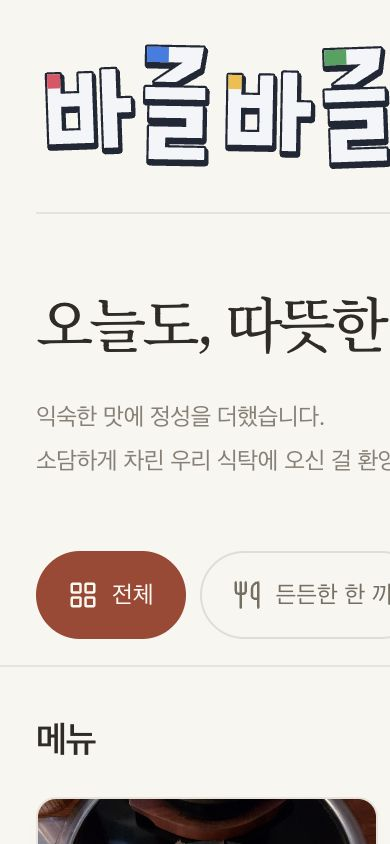
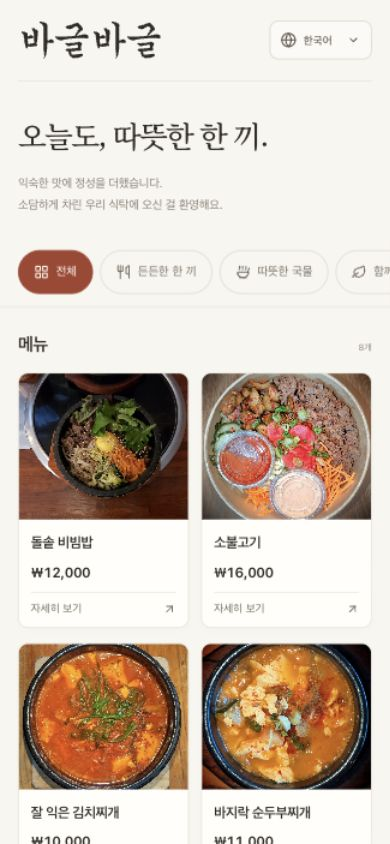
style: replace restaurant wordmark with Gungseo lettering

diff --git a/src/components/BrandWordmark.tsx b/src/components/BrandWordmark.tsx
@@ -1,66 +1,25 @@
-const ba =
-  "M8 25H20V43H37V25H49V89H8Z M20 55V77H37V55Z M58 22H71V49H84V62H71V94H58Z";
-const geul =
-  "M5 3H57L54 22L32 35H12L38 17H5Z M4 40H59V51H4Z M8 57H57V86H23V95H59V106H8V76H42V68H8Z";
-
-// Paths keep the sign-inspired lettering consistent without a device font.
+// Letter outlines rendered from the original ChosunGs font; see README for source.
 const letters = [
-  {
-    path: ba,
-    transform: "translate(3 5) rotate(-2 42 55)",
-    accent: "M8 25H20V38H8Z",
-    color: "#e74d64",
-  },
-  {
-    path: geul,
-    transform: "translate(96 3) rotate(1 30 55)",
-    accent: "M5 3H25V17H5Z",
-    color: "#347ee5",
-  },
-  {
-    path: ba,
-    transform: "translate(168 7) rotate(1 42 55)",
-    accent: "M8 25H20V38H8Z",
-    color: "#f4bd34",
-  },
-  {
-    path: geul,
-    transform: "translate(261 5) rotate(-2 30 55)",
-    accent: "M5 3H25V17H5Z",
-    color: "#37a35b",
-  },
+  { x: 0, path: "M410 293Q407 293 403.0 292.0Q399 291 396 289Q379 283 360.5 279.0Q342 275 321 270Q309 267 288.5 263.0Q268 259 250 257Q250 257 250.0 257.5Q250 258 250 258L244 397Q257 399 269.5 399.5Q282 400 290 401Q301 401 322.0 402.5Q343 404 348 404Q354 406 364.0 408.0Q374 410 381 415Q388 420 391.0 429.0Q394 438 392 446Q391 457 378.5 468.5Q366 480 355 484Q348 487 337.5 488.0Q327 489 322 489Q317 489 310.0 484.5Q303 480 298 477Q292 473 284.0 467.5Q276 462 268 459Q262 457 255.5 455.5Q249 454 242 452L241 473Q240 489 240.5 498.5Q241 508 240 522Q236 530 224.0 538.0Q212 546 202 551Q188 559 166.0 566.5Q144 574 131 577Q119 580 106.5 577.5Q94 575 90 569Q86 562 90.0 555.0Q94 548 97 543Q99 539 107.5 531.0Q116 523 121 516Q129 507 134.5 497.5Q140 488 142 478Q147 450 157.5 373.0Q168 296 172 274Q176 250 182.0 226.0Q188 202 192 191Q198 175 205.5 162.5Q213 150 222 150Q230 150 237.0 163.0Q244 176 247 192Q248 196 248.5 200.0Q249 204 249 208Q257 207 265.0 205.0Q273 203 278 201Q287 199 301.0 197.0Q315 195 321 195Q334 195 355.5 198.0Q377 201 395 204Q411 206 430.5 207.5Q450 209 459 212Q467 214 476.5 219.5Q486 225 487 229Q489 234 488.5 242.5Q488 251 485 255Q484 259 477.0 266.5Q470 274 464 278Q468 288 472.0 297.5Q476 307 478 313Q482 323 486.5 349.5Q491 376 492 383Q494 397 496.5 445.0Q499 493 498 513Q498 517 498.5 524.0Q499 531 500 534Q500 535 501.0 539.5Q502 544 503 548Q506 561 507.0 572.0Q508 583 505 588Q502 596 486.5 609.5Q471 623 455 633Q439 644 418.5 653.0Q398 662 385 665Q376 667 365.0 663.0Q354 659 351 654Q347 647 352.5 637.5Q358 628 361 623Q365 616 371.5 607.0Q378 598 382 590Q387 580 391.5 569.5Q396 559 397 551Q398 539 399.5 526.5Q401 514 401 502Q403 475 404.0 431.0Q405 387 405 377Q405 365 407.0 340.0Q409 315 410 293ZM740 349V693Q740 698 740.5 706.5Q741 715 742 719Q743 723 745.0 731.0Q747 739 747 742Q747 747 742.0 753.0Q737 759 728 766Q720 773 705.0 782.0Q690 791 676 798Q666 803 649.0 811.0Q632 819 622 822Q613 825 600.5 827.5Q588 830 580 830Q570 830 559.0 827.5Q548 825 546 817Q545 812 552.0 805.0Q559 798 567 792Q576 785 588.5 775.0Q601 765 611 754Q622 742 632.5 727.5Q643 713 643 692V265Q643 248 644.5 201.5Q646 155 648 129Q650 103 653.5 72.5Q657 42 660 24Q662 9 663.5 -7.0Q665 -23 665 -31Q665 -40 663.5 -52.0Q662 -64 661 -69Q660 -74 659.0 -81.5Q658 -89 656 -95Q655 -99 654.0 -103.5Q653 -108 656 -110Q660 -111 663.5 -107.5Q667 -104 671 -98Q674 -93 679.0 -84.0Q684 -75 690 -63Q696 -49 704.0 -23.5Q712 2 718 27Q723 49 727.5 83.5Q732 118 735 140Q737 164 738.5 210.5Q740 257 740 272V294Q744 295 747.0 295.0Q750 295 752 295Q759 295 780.0 294.0Q801 293 811 292Q822 291 841.5 288.5Q861 286 865 286Q872 286 880.0 289.5Q888 293 892 298Q897 303 900.0 311.5Q903 320 903 328Q903 339 900.0 346.5Q897 354 892 358Q888 362 881.0 366.5Q874 371 866 374Q859 377 848.0 379.0Q837 381 832 381Q827 381 819.5 379.0Q812 377 807 374Q801 370 792.0 365.5Q783 361 774 357Q767 354 758.0 352.0Q749 350 740 349Z" },
+  { x: 910, path: "M523 466Q503 465 482.5 463.5Q462 462 444 460Q377 456 314.0 452.5Q251 449 219 449Q173 449 128.5 451.5Q84 454 61 455Q44 457 37.0 453.0Q30 449 30 440Q30 427 51.5 411.5Q73 396 97 382Q119 370 143.5 360.0Q168 350 177 350Q182 350 196.5 355.0Q211 360 224 364Q241 369 260.5 373.0Q280 377 300 381Q326 386 369.5 391.0Q413 396 458 400Q503 404 550.5 408.0Q598 412 631 413Q658 414 695.5 413.5Q733 413 759 411Q777 410 798.5 408.0Q820 406 824 406Q832 406 840.5 407.5Q849 409 856 416Q862 422 866.0 430.5Q870 439 870 446Q870 454 868.5 461.5Q867 469 861 476Q855 484 842.5 490.5Q830 497 818 501Q804 506 784.0 509.0Q764 512 755 512Q749 511 737.0 507.0Q725 503 713 499Q696 494 674.5 489.0Q653 484 627 479Q613 477 595.5 474.5Q578 472 559 470Q579 490 602.5 511.0Q626 532 636 539Q646 548 658.0 562.0Q670 576 679 586Q687 590 695.0 595.0Q703 600 709 604Q717 609 724.0 617.0Q731 625 732 630Q735 636 730.5 650.5Q726 665 718 679Q708 696 691.0 720.0Q674 744 657 759Q635 779 614.0 788.5Q593 798 580 798Q572 798 553.0 792.0Q534 786 520 779Q508 775 487.0 767.0Q466 759 448 753Q430 746 409.0 741.0Q388 736 372 732Q357 729 338.0 725.0Q319 721 309 719Q300 716 294.0 710.5Q288 705 288 700Q288 696 294.0 686.0Q300 676 307 672Q316 667 327.0 661.5Q338 656 348 651Q360 646 375.0 642.0Q390 638 398 638Q406 638 417.0 639.5Q428 641 435 644Q440 646 447.5 650.0Q455 654 459 658Q466 663 477.5 668.5Q489 674 496 678Q507 684 533.5 697.5Q560 711 567 711Q572 711 581.0 707.0Q590 703 603 690Q617 678 620.0 665.5Q623 653 619 642Q614 629 603.5 607.5Q593 586 584 568Q574 549 555.5 518.0Q537 487 523 466ZM678 302Q667 310 654.5 315.5Q642 321 634 321Q624 321 611.0 314.5Q598 308 587 305Q572 302 542.0 298.5Q512 295 496 293Q475 291 439.5 288.5Q404 286 384 286Q367 286 348.0 286.5Q329 287 313 288Q298 290 290.5 285.5Q283 281 283 273Q283 266 291.0 257.0Q299 248 306 243Q315 236 325.5 229.5Q336 223 346 218Q356 214 368.0 209.5Q380 205 385 205Q390 205 400.5 209.5Q411 214 418 216Q432 220 446.5 223.5Q461 227 478 230Q489 232 508.5 235.0Q528 238 544 240Q555 242 575.0 244.0Q595 246 602 247Q604 232 606.0 207.5Q608 183 609 168Q591 164 545.5 159.0Q500 154 477 152Q449 149 419.5 147.0Q390 145 371 145Q355 145 341.0 145.5Q327 146 320 144Q308 142 301.5 137.0Q295 132 295 124Q295 117 299.0 111.5Q303 106 309 101Q312 98 323.5 90.5Q335 83 345 78Q353 74 359.5 69.0Q366 64 370 60Q372 55 378.5 23.5Q385 -8 389 -23Q394 -39 406.5 -50.5Q419 -62 435 -72Q449 -80 467.0 -87.5Q485 -95 498 -95Q515 -95 548.0 -91.5Q581 -88 602 -84Q625 -79 657.5 -71.0Q690 -63 706 -56Q720 -49 726.5 -37.0Q733 -25 729 -6Q727 5 716.5 12.5Q706 20 696 20Q689 20 677.0 17.5Q665 15 656 13Q646 11 627.0 8.0Q608 5 590 2Q571 -1 546.0 -3.5Q521 -6 505 -7Q490 -8 474.5 -7.0Q459 -6 446 -3L434 73Q445 75 461.5 77.5Q478 80 494 82Q506 84 557.0 88.5Q608 93 637 94Q661 96 676.5 100.0Q692 104 696 117Q700 127 693.0 139.5Q686 152 672 162L693 232Q698 240 705.0 250.0Q712 260 712 270Q712 276 701.5 285.0Q691 294 678 302Z" },
+  { x: 1820, path: "M410 293Q407 293 403.0 292.0Q399 291 396 289Q379 283 360.5 279.0Q342 275 321 270Q309 267 288.5 263.0Q268 259 250 257Q250 257 250.0 257.5Q250 258 250 258L244 397Q257 399 269.5 399.5Q282 400 290 401Q301 401 322.0 402.5Q343 404 348 404Q354 406 364.0 408.0Q374 410 381 415Q388 420 391.0 429.0Q394 438 392 446Q391 457 378.5 468.5Q366 480 355 484Q348 487 337.5 488.0Q327 489 322 489Q317 489 310.0 484.5Q303 480 298 477Q292 473 284.0 467.5Q276 462 268 459Q262 457 255.5 455.5Q249 454 242 452L241 473Q240 489 240.5 498.5Q241 508 240 522Q236 530 224.0 538.0Q212 546 202 551Q188 559 166.0 566.5Q144 574 131 577Q119 580 106.5 577.5Q94 575 90 569Q86 562 90.0 555.0Q94 548 97 543Q99 539 107.5 531.0Q116 523 121 516Q129 507 134.5 497.5Q140 488 142 478Q147 450 157.5 373.0Q168 296 172 274Q176 250 182.0 226.0Q188 202 192 191Q198 175 205.5 162.5Q213 150 222 150Q230 150 237.0 163.0Q244 176 247 192Q248 196 248.5 200.0Q249 204 249 208Q257 207 265.0 205.0Q273 203 278 201Q287 199 301.0 197.0Q315 195 321 195Q334 195 355.5 198.0Q377 201 395 204Q411 206 430.5 207.5Q450 209 459 212Q467 214 476.5 219.5Q486 225 487 229Q489 234 488.5 242.5Q488 251 485 255Q484 259 477.0 266.5Q470 274 464 278Q468 288 472.0 297.5Q476 307 478 313Q482 323 486.5 349.5Q491 376 492 383Q494 397 496.5 445.0Q499 493 498 513Q498 517 498.5 524.0Q499 531 500 534Q500 535 501.0 539.5Q502 544 503 548Q506 561 507.0 572.0Q508 583 505 588Q502 596 486.5 609.5Q471 623 455 633Q439 644 418.5 653.0Q398 662 385 665Q376 667 365.0 663.0Q354 659 351 654Q347 647 352.5 637.5Q358 628 361 623Q365 616 371.5 607.0Q378 598 382 590Q387 580 391.5 569.5Q396 559 397 551Q398 539 399.5 526.5Q401 514 401 502Q403 475 404.0 431.0Q405 387 405 377Q405 365 407.0 340.0Q409 315 410 293ZM740 349V693Q740 698 740.5 706.5Q741 715 742 719Q743 723 745.0 731.0Q747 739 747 742Q747 747 742.0 753.0Q737 759 728 766Q720 773 705.0 782.0Q690 791 676 798Q666 803 649.0 811.0Q632 819 622 822Q613 825 600.5 827.5Q588 830 580 830Q570 830 559.0 827.5Q548 825 546 817Q545 812 552.0 805.0Q559 798 567 792Q576 785 588.5 775.0Q601 765 611 754Q622 742 632.5 727.5Q643 713 643 692V265Q643 248 644.5 201.5Q646 155 648 129Q650 103 653.5 72.5Q657 42 660 24Q662 9 663.5 -7.0Q665 -23 665 -31Q665 -40 663.5 -52.0Q662 -64 661 -69Q660 -74 659.0 -81.5Q658 -89 656 -95Q655 -99 654.0 -103.5Q653 -108 656 -110Q660 -111 663.5 -107.5Q667 -104 671 -98Q674 -93 679.0 -84.0Q684 -75 690 -63Q696 -49 704.0 -23.5Q712 2 718 27Q723 49 727.5 83.5Q732 118 735 140Q737 164 738.5 210.5Q740 257 740 272V294Q744 295 747.0 295.0Q750 295 752 295Q759 295 780.0 294.0Q801 293 811 292Q822 291 841.5 288.5Q861 286 865 286Q872 286 880.0 289.5Q888 293 892 298Q897 303 900.0 311.5Q903 320 903 328Q903 339 900.0 346.5Q897 354 892 358Q888 362 881.0 366.5Q874 371 866 374Q859 377 848.0 379.0Q837 381 832 381Q827 381 819.5 379.0Q812 377 807 374Q801 370 792.0 365.5Q783 361 774 357Q767 354 758.0 352.0Q749 350 740 349Z" },
+  { x: 2730, path: "M523 466Q503 465 482.5 463.5Q462 462 444 460Q377 456 314.0 452.5Q251 449 219 449Q173 449 128.5 451.5Q84 454 61 455Q44 457 37.0 453.0Q30 449 30 440Q30 427 51.5 411.5Q73 396 97 382Q119 370 143.5 360.0Q168 350 177 350Q182 350 196.5 355.0Q211 360 224 364Q241 369 260.5 373.0Q280 377 300 381Q326 386 369.5 391.0Q413 396 458 400Q503 404 550.5 408.0Q598 412 631 413Q658 414 695.5 413.5Q733 413 759 411Q777 410 798.5 408.0Q820 406 824 406Q832 406 840.5 407.5Q849 409 856 416Q862 422 866.0 430.5Q870 439 870 446Q870 454 868.5 461.5Q867 469 861 476Q855 484 842.5 490.5Q830 497 818 501Q804 506 784.0 509.0Q764 512 755 512Q749 511 737.0 507.0Q725 503 713 499Q696 494 674.5 489.0Q653 484 627 479Q613 477 595.5 474.5Q578 472 559 470Q579 490 602.5 511.0Q626 532 636 539Q646 548 658.0 562.0Q670 576 679 586Q687 590 695.0 595.0Q703 600 709 604Q717 609 724.0 617.0Q731 625 732 630Q735 636 730.5 650.5Q726 665 718 679Q708 696 691.0 720.0Q674 744 657 759Q635 779 614.0 788.5Q593 798 580 798Q572 798 553.0 792.0Q534 786 520 779Q508 775 487.0 767.0Q466 759 448 753Q430 746 409.0 741.0Q388 736 372 732Q357 729 338.0 725.0Q319 721 309 719Q300 716 294.0 710.5Q288 705 288 700Q288 696 294.0 686.0Q300 676 307 672Q316 667 327.0 661.5Q338 656 348 651Q360 646 375.0 642.0Q390 638 398 638Q406 638 417.0 639.5Q428 641 435 644Q440 646 447.5 650.0Q455 654 459 658Q466 663 477.5 668.5Q489 674 496 678Q507 684 533.5 697.5Q560 711 567 711Q572 711 581.0 707.0Q590 703 603 690Q617 678 620.0 665.5Q623 653 619 642Q614 629 603.5 607.5Q593 586 584 568Q574 549 555.5 518.0Q537 487 523 466ZM678 302Q667 310 654.5 315.5Q642 321 634 321Q624 321 611.0 314.5Q598 308 587 305Q572 302 542.0 298.5Q512 295 496 293Q475 291 439.5 288.5Q404 286 384 286Q367 286 348.0 286.5Q329 287 313 288Q298 290 290.5 285.5Q283 281 283 273Q283 266 291.0 257.0Q299 248 306 243Q315 236 325.5 229.5Q336 223 346 218Q356 214 368.0 209.5Q380 205 385 205Q390 205 400.5 209.5Q411 214 418 216Q432 220 446.5 223.5Q461 227 478 230Q489 232 508.5 235.0Q528 238 544 240Q555 242 575.0 244.0Q595 246 602 247Q604 232 606.0 207.5Q608 183 609 168Q591 164 545.5 159.0Q500 154 477 152Q449 149 419.5 147.0Q390 145 371 145Q355 145 341.0 145.5Q327 146 320 144Q308 142 301.5 137.0Q295 132 295 124Q295 117 299.0 111.5Q303 106 309 101Q312 98 323.5 90.5Q335 83 345 78Q353 74 359.5 69.0Q366 64 370 60Q372 55 378.5 23.5Q385 -8 389 -23Q394 -39 406.5 -50.5Q419 -62 435 -72Q449 -80 467.0 -87.5Q485 -95 498 -95Q515 -95 548.0 -91.5Q581 -88 602 -84Q625 -79 657.5 -71.0Q690 -63 706 -56Q720 -49 726.5 -37.0Q733 -25 729 -6Q727 5 716.5 12.5Q706 20 696 20Q689 20 677.0 17.5Q665 15 656 13Q646 11 627.0 8.0Q608 5 590 2Q571 -1 546.0 -3.5Q521 -6 505 -7Q490 -8 474.5 -7.0Q459 -6 446 -3L434 73Q445 75 461.5 77.5Q478 80 494 82Q506 84 557.0 88.5Q608 93 637 94Q661 96 676.5 100.0Q692 104 696 117Q700 127 693.0 139.5Q686 152 672 162L693 232Q698 240 705.0 250.0Q712 260 712 270Q712 276 701.5 285.0Q691 294 678 302Z" },
 ];
 
 export function BrandWordmark() {
   return (
     <svg
       className="brand-wordmark"
-      viewBox="0 0 330 120"
-      fill="none"
+      viewBox="0 0 3640 1020.22"
+      fill="currentColor"
       aria-hidden="true"
       focusable="false"
     >
-      {letters.map((letter, index) => (
-        <g key={index} transform={letter.transform} strokeLinejoin="round">
-          <path
-            d={letter.path}
-            fill="#202736"
-            fillRule="evenodd"
-            stroke="#202736"
-            strokeWidth="6"
-            transform="translate(1 3)"
-          />
-          <path
-            d={letter.path}
-            fill="#f4f5f8"
-            fillRule="evenodd"
-            stroke="#202736"
-            strokeWidth="4"
-            paintOrder="stroke"
-          />
-          <path d={letter.accent} fill={letter.color} />
-        </g>
-      ))}
+      <g transform="translate(0 870) scale(1 -1)">
+        {letters.map((letter, index) => (
+          <path key={index} d={letter.path} transform={`translate(${letter.x})`} />
+        ))}
+      </g>
     </svg>
   );
 }

diff --git a/src/styles.css b/src/styles.css
@@ -66,8 +66,9 @@ select {
 }
 .brand-wordmark {
   display: block;
-  width: 220px;
-  height: 80px;
+  width: 168px;
+  height: auto;
+  color: #302c25;
 }
 .language-select {
   position: relative;
@@ -731,8 +732,7 @@ select {
     padding-block: 20px;
   }
   .brand-wordmark {
-    width: 180px;
-    height: 66px;
+    width: 144px;
   }
   .brand {
     gap: 9px;
@@ -909,8 +909,7 @@ select {
     padding: 15px;
   }
   .brand-wordmark {
-    width: 154px;
-    height: 56px;
+    width: 132px;
   }
   .hero h1 {
     font-size: 27px;

diff --git a/README.md b/README.md
@@ -18,7 +18,7 @@
 
 메뉴·사진·가격·번역·원산지·알레르기 정보는 모두 디자인 확인용 샘플입니다. 실제 매장의 정보나 검수한 식품 정보를 뜻하지 않습니다. 주문·장바구니·결제·ASK·분석 도구·관리자 화면·실제 API 연결은 이 프론트 초안에 포함하지 않습니다.
 
-상호는 **바글바글**이며, 헤더 로고는 매장 간판의 굵은 글씨와 네 가지 색상 포인트를 참고해 SVG 경로로 제작했습니다. 별도 폰트 다운로드 없이 기기마다 동일하게 표시됩니다. 로고는 `src/components/BrandWordmark.tsx`에서 수정합니다.
+상호는 **바글바글**이며, 헤더 로고는 [조선일보 공식 배포 조선궁서체](https://event.chosun.com/100/100font.html)를 사용했습니다. 네 글자의 윤곽을 SVG로 출력해 별도 웹폰트 다운로드 없이 모든 기기에서 같은 궁서체가 보입니다. 글꼴의 지적재산권은 (주)조선일보사에 있습니다. 원본 글꼴 파일은 저장소에 포함하지 않습니다. 로고는 `src/components/BrandWordmark.tsx`에서 수정합니다.
 
 ## 화면
 
